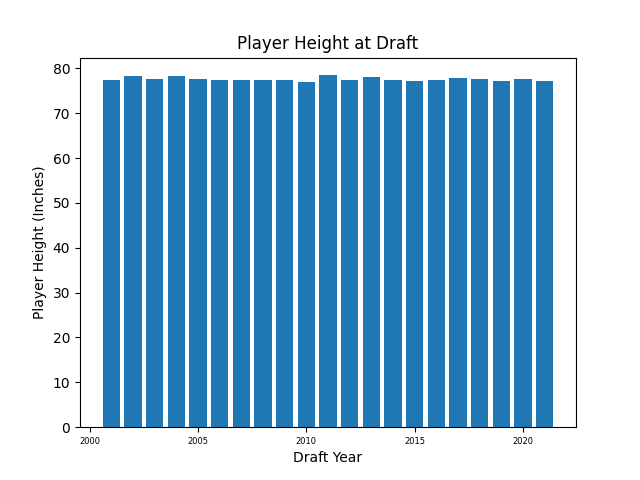
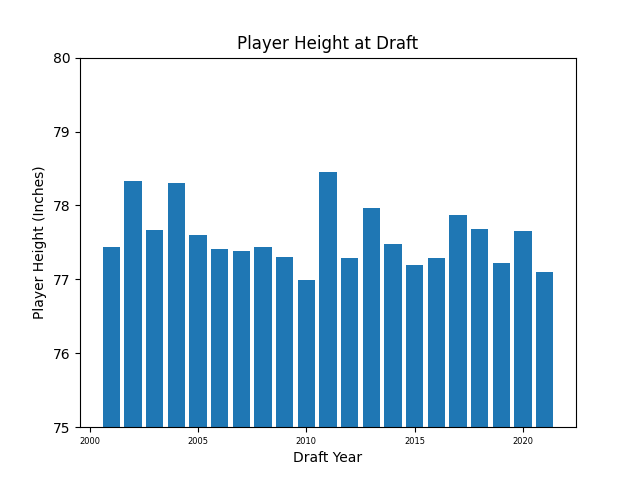
fixed player_height

diff --git a/parts/Part1.py b/parts/Part1.py
@@ -1,5 +1,3 @@
-from tkinter import E
-from turtle import color
 import matplotlib.pyplot as plt
 from matplotlib import cm
 from clients.SqliteClient import SqlClient
@@ -14,12 +12,10 @@ def part1():
     player_country_plot(sql_client)
     player_ages_plot(sql_client)
     player_height_plot(sql_client)
-    # print(top_salaries(sql_client))
-    # print(min_salaries(sql_client))
-    # print(team_win_loss_home(sql_client))
 
 def player_height_plot(sql_client):
     year, height = list(zip(*player_height(sql_client)))
+    plt.ylim(75, 80)
     bar_plot(height[::-1], 'Player Height (Inches)', year[::-1], 'Draft Year', "Player Height at Draft", 'player_height')
 
 def player_ages_plot(sql_client):
